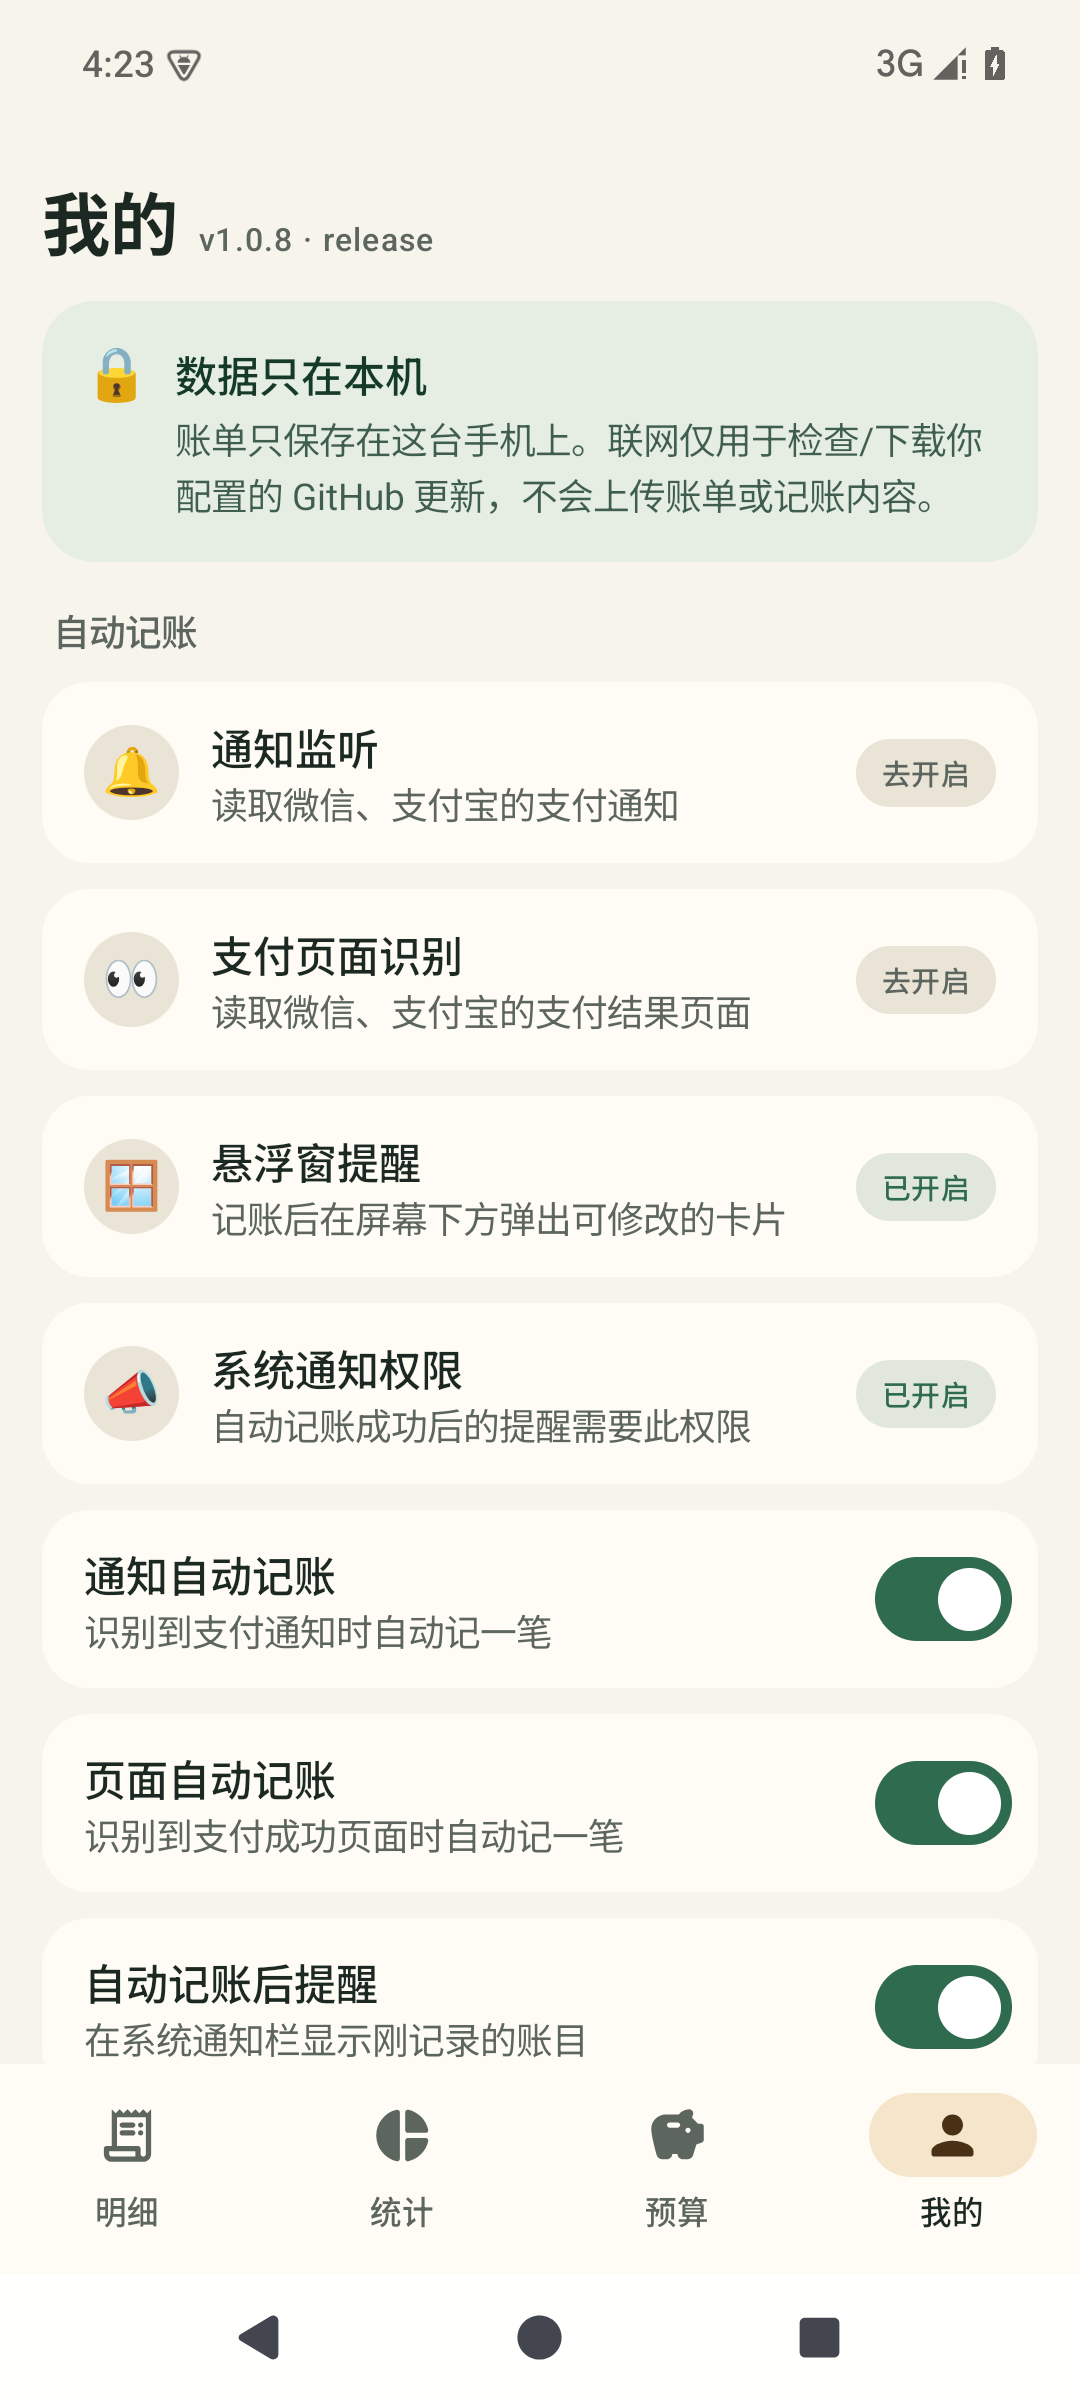
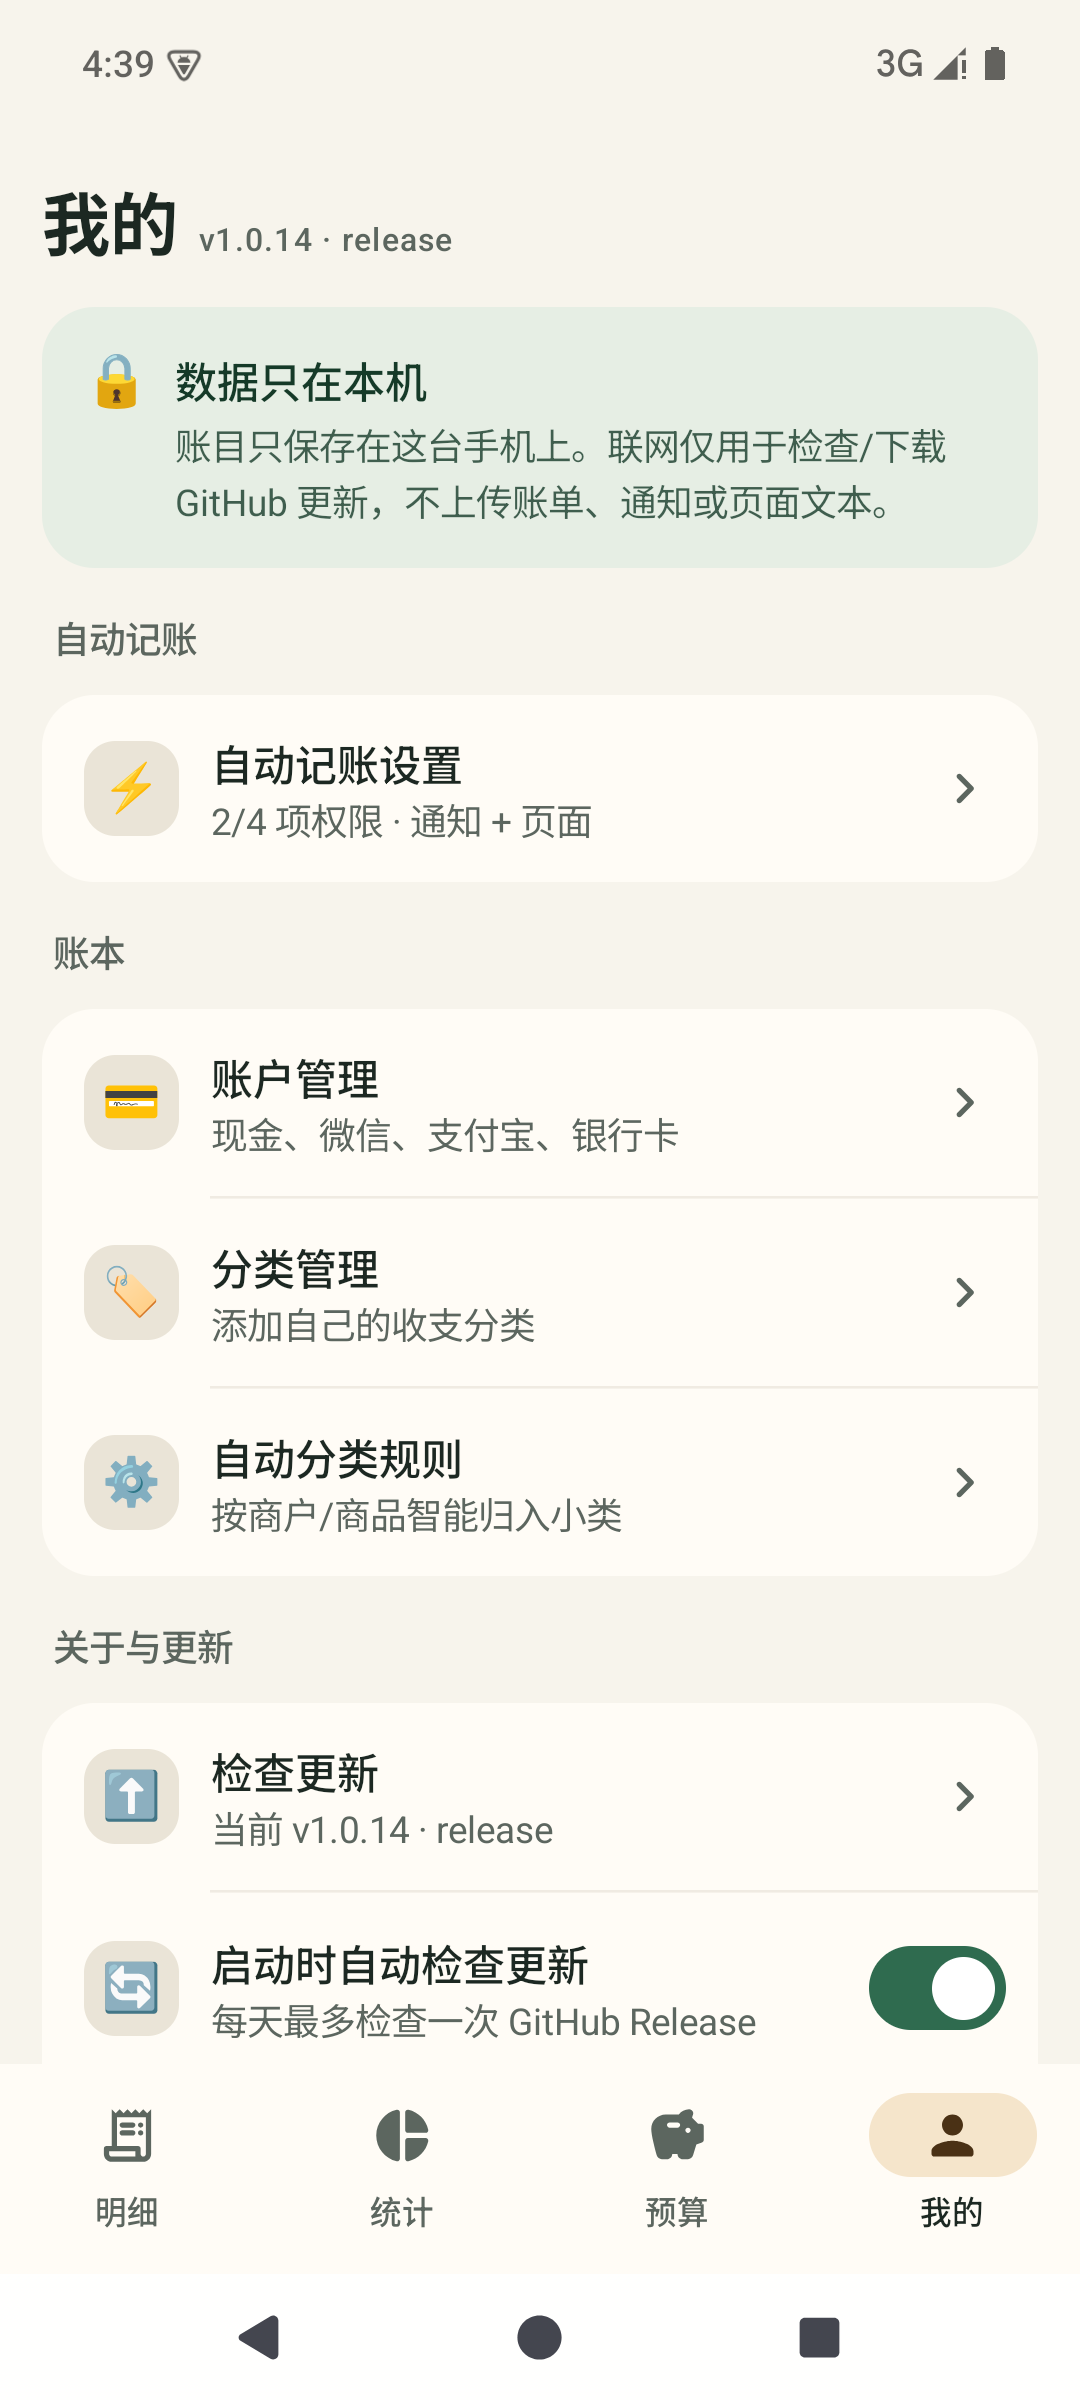
release: v1.0.15

diff --git a/app/src/main/java/com/qinghe/ledger/ui/screens/AutoSettingsScreen.kt b/app/src/main/java/com/qinghe/ledger/ui/screens/AutoSettingsScreen.kt
@@ -12,6 +12,7 @@ import androidx.compose.foundation.layout.Spacer
 import androidx.compose.foundation.layout.fillMaxSize
 import androidx.compose.foundation.layout.height
 import androidx.compose.foundation.layout.heightIn
+import androidx.compose.foundation.layout.navigationBarsPadding
 import androidx.compose.foundation.layout.padding
 import androidx.compose.foundation.lazy.LazyColumn
 import androidx.compose.foundation.rememberScrollState
@@ -97,7 +98,11 @@ fun AutoSettingsScreen(
         modifier = Modifier.fillMaxSize(),
         color = MaterialTheme.colorScheme.background
     ) {
-        Column(modifier = Modifier.fillMaxSize()) {
+        Column(
+            modifier = Modifier
+                .fillMaxSize()
+                .navigationBarsPadding()
+        ) {
             ManagerTopBar(title = "自动记账", onBack = onBack)
             LazyColumn(
                 modifier = Modifier.fillMaxSize(),

diff --git a/README.md b/README.md
@@ -73,21 +73,21 @@
 从 [GitHub Releases](https://github.com/newbeezzc/qinghe-ledger/releases/latest) 下载最新 APK：
 
 ```
-dist/qinghe-1.0.14.apk
+dist/qinghe-1.0.15.apk
 ```
 
 也可以连接手机后安装：
 
 ```bash
-adb install -r dist/qinghe-1.0.14.apk
+adb install -r dist/qinghe-1.0.15.apk
 ```
 
-安装后在「我的」标题旁可以看到 `v1.0.14 · release`（如果是 `debug`，说明装错了包）。
+安装后在「我的」标题旁可以看到 `v1.0.15 · release`（如果是 `debug`，说明装错了包）。
 
 当前 APK 的 SHA-256：
 
 ```
[2 lines of base64/hex data omitted]
 ```
 
 ### 签名说明

diff --git a/docs/release-notes/v1.0.15.md b/docs/release-notes/v1.0.15.md
@@ -1,0 +1,2 @@
+1. 自动记账子页适配系统底部导航栏，避免「识别诊断」入口被导航条遮挡
+2. 设置项文案微调
